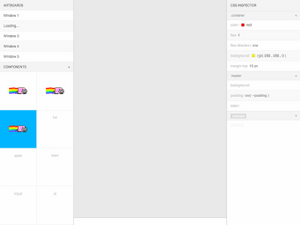
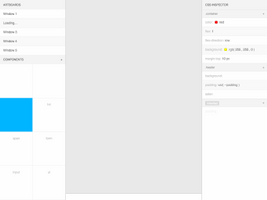
set max height to 100

Changed region(s): [[0.1498, 0.36, 0.2397, 0.42], [0.03, 0.54, 0.0899, 0.6], [0.03, 0.36, 0.0899, 0.42]]

diff --git a/packages/paperclip-language-server/src/modes/template/services/htmlHover.ts b/packages/paperclip-language-server/src/modes/template/services/htmlHover.ts
@@ -49,7 +49,7 @@ export function doHover(
         // Hack. Must save files to local FS for some reason.
         try {
           await new Promise((resolve, reject) => {
-            request({ url: `http://127.0.0.1:${devToolsPort}/components/${id}/screenshots/latest.png?maxWidth=300&maxHeight=300`, encoding: null }, (err, response, body) => {
+            request({ url: `http://127.0.0.1:${devToolsPort}/components/${id}/screenshots/latest.png?maxWidth=300&maxHeight=200`, encoding: null }, (err, response, body) => {
               if (err) return reject();
               if (response.statusCode !== 200) {
                 return reject(new Error("not found"));

diff --git a/packages/vscode-tandem-extension/README.md b/packages/vscode-tandem-extension/README.md
@@ -10,12 +10,12 @@ Enough tooling where documentation is somewhat unnecessary for paperclip
 #### TODOS
 
 - [ ] see https://github.com/eamodio/vscode-gitlens/tree/master/src
-- [ ] hover preview
 - [ ] <preview /> tag check
 - [ ] history is getting clobbered. 
 - [ ] warning for components that do not have preview elements
 - [ ] make sure component screenshots route checks for existence
   - [ ] "edit live" button 
+- [ ] hover doesn't always work
 - /workspace/:hash endpoing (hash is CWD)
 - "Open component in tandem" command
 - "Edit file visually" button for PC files
